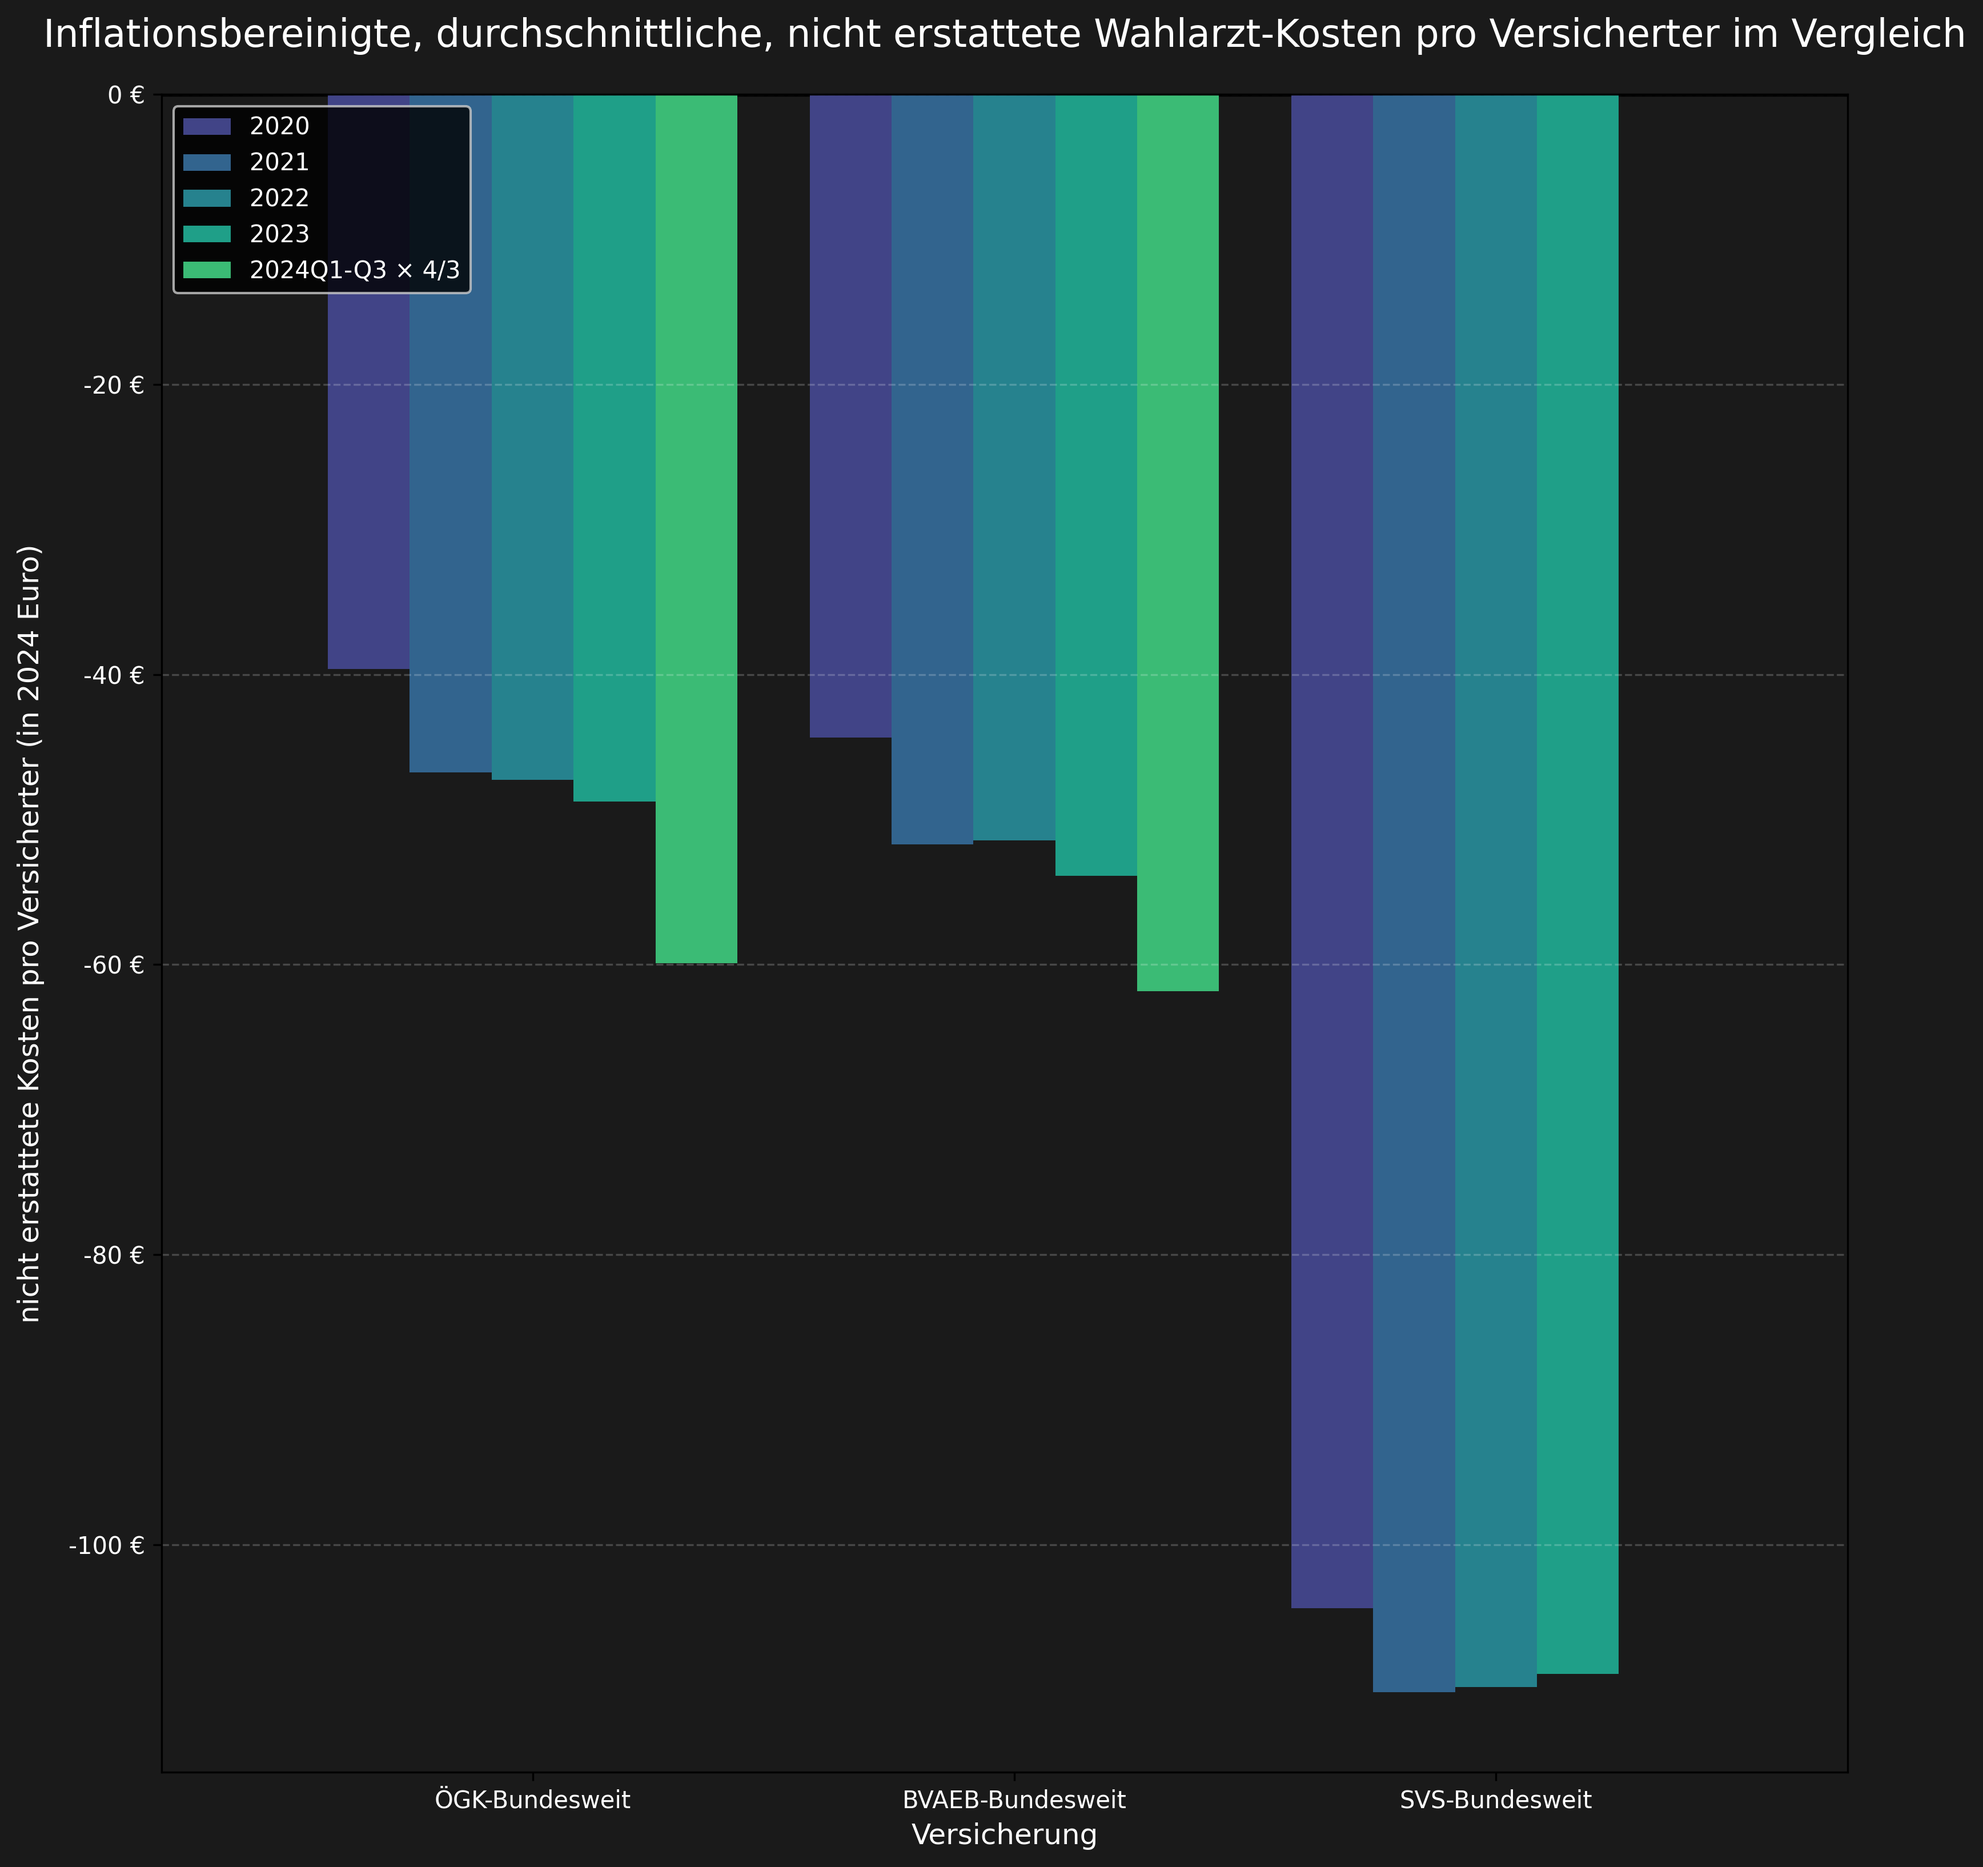
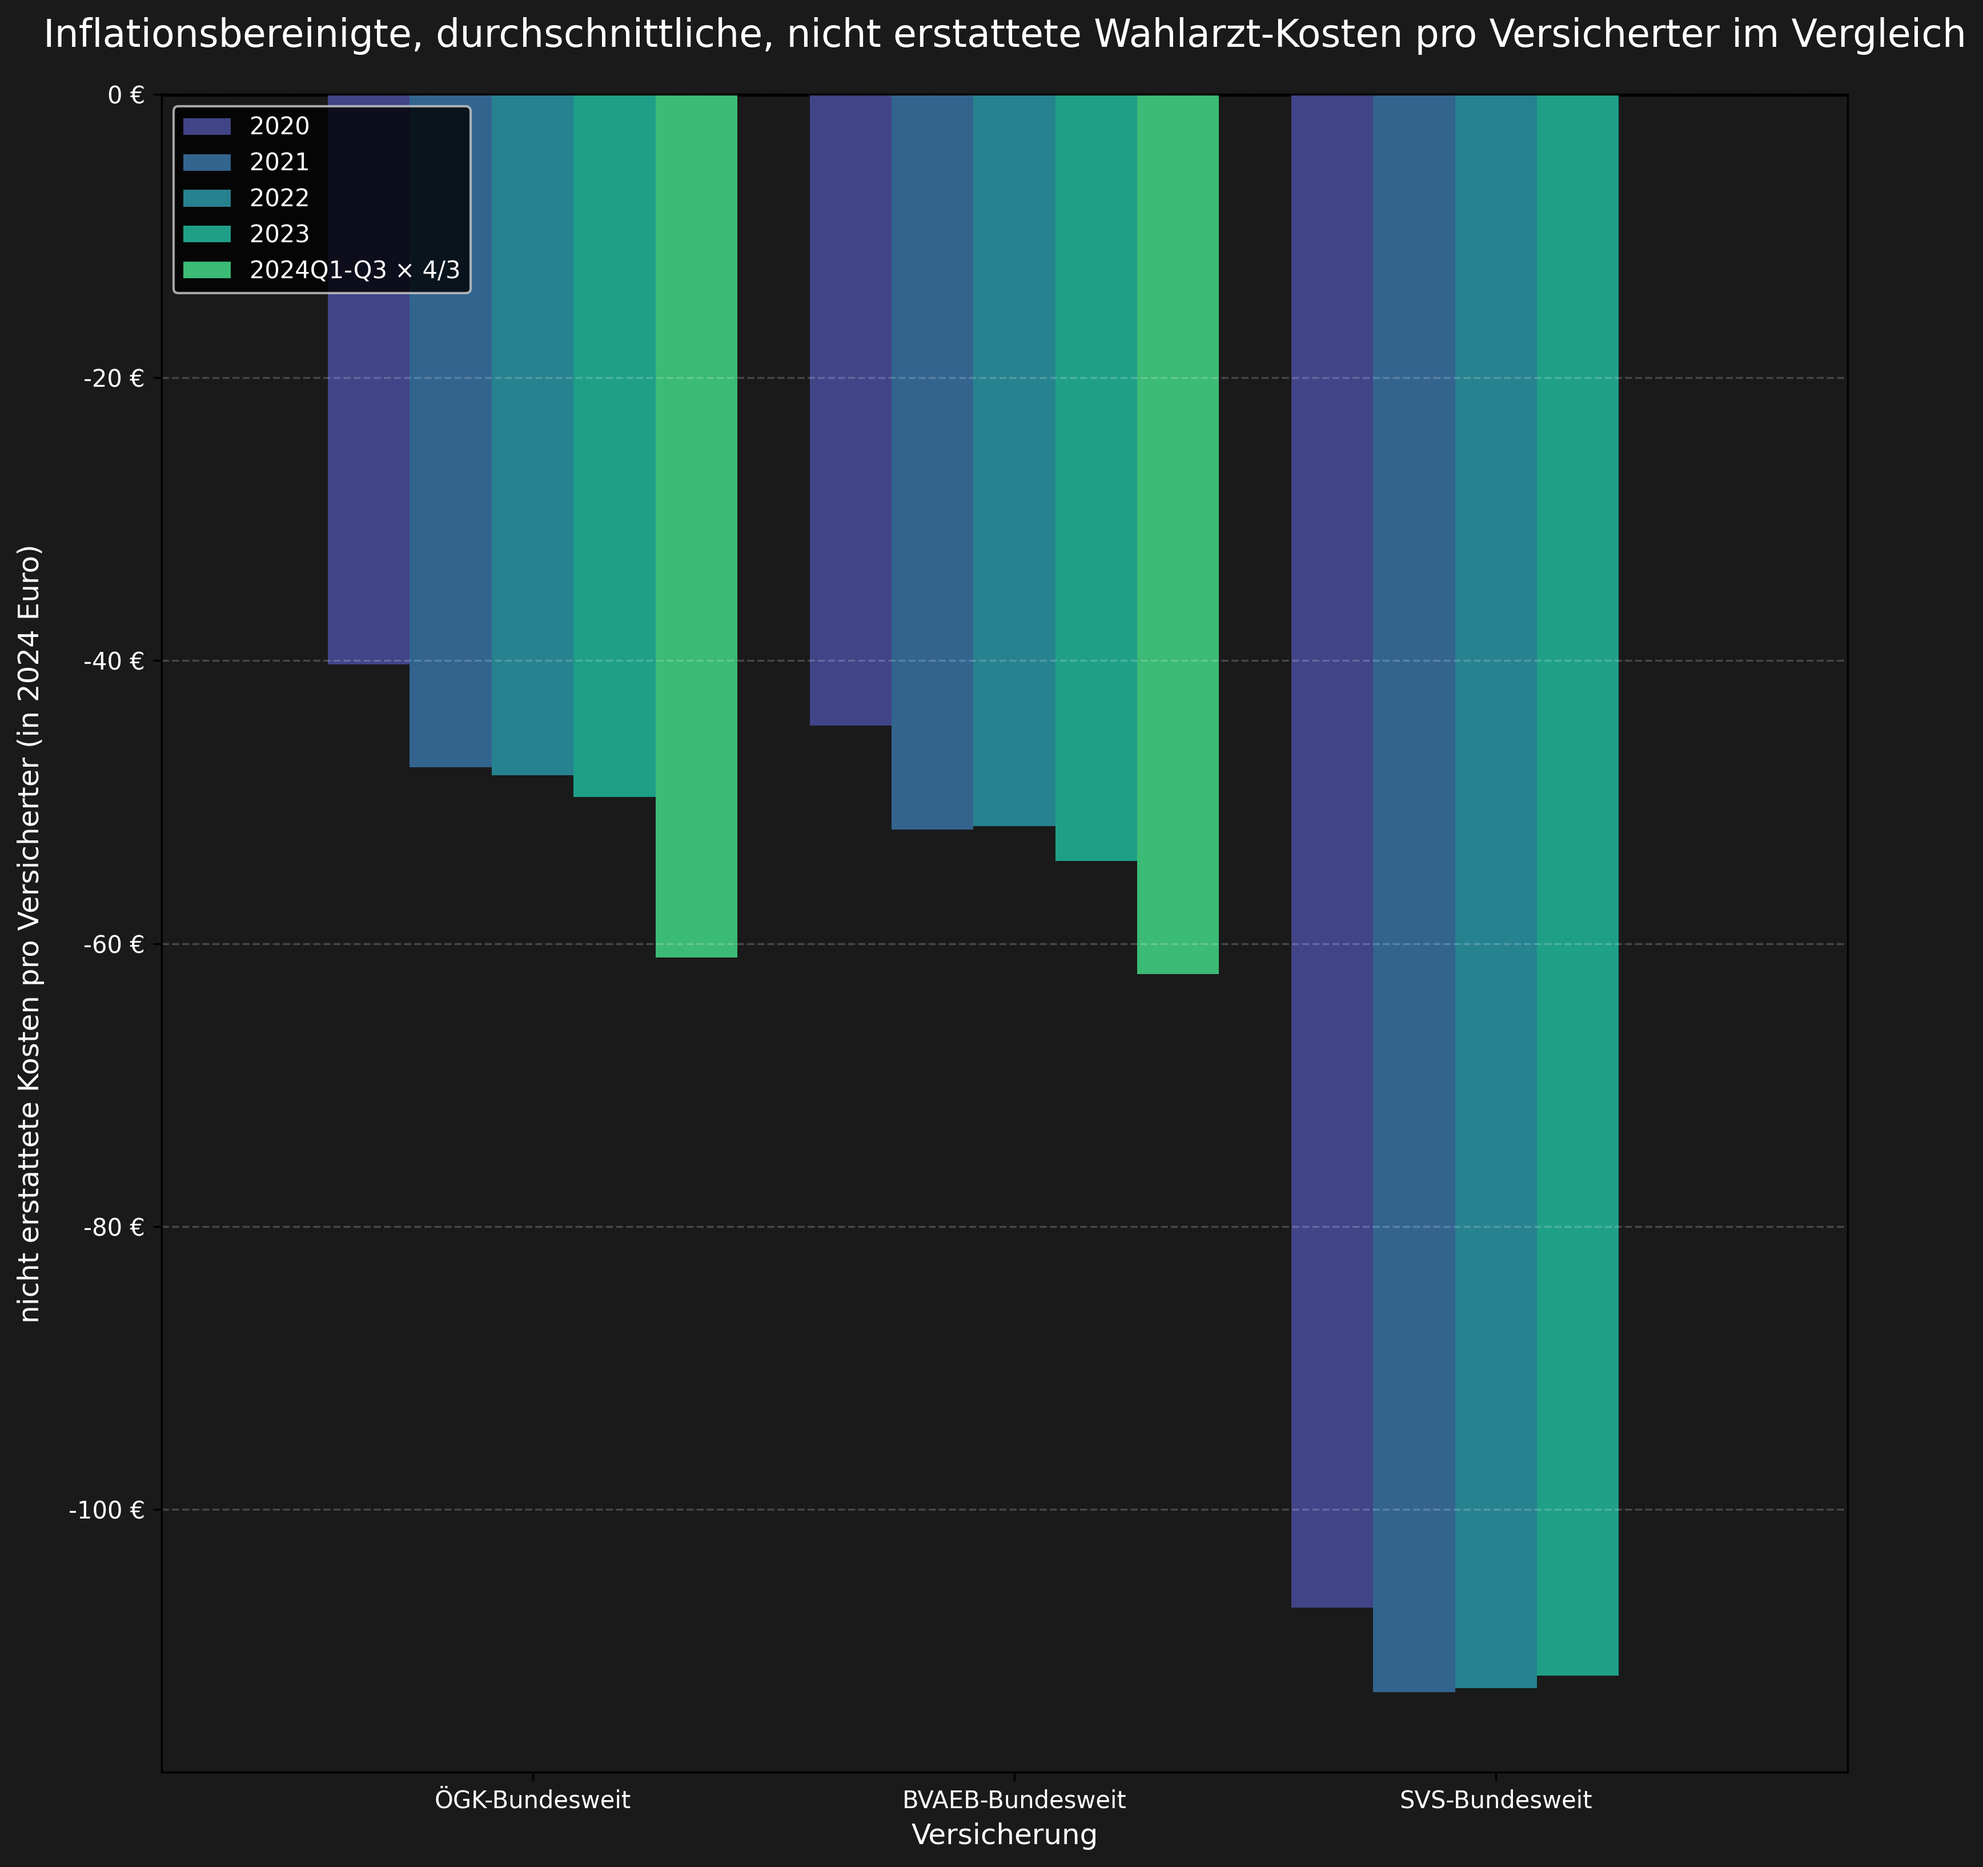
now using the correct data for the KK vergleich betraege weighted

diff --git a/visualize/plot_insurance_comparison_weighted.py b/visualize/plot_insurance_comparison_weighted.py
@@ -3,9 +3,11 @@ import matplotlib.pyplot as plt
 import numpy as np
 import os
 import colorsys
+import glob
 
 # Global settings
 OUTPUT_DIR = "../figures/Insurance_Comparison"  # Output directory for the plot
+SV_DATA_DIR = "../data/extras/SV_Jahresberichte"  # Directory containing SV Excel files
 
 # Dictionary to prettify insurance provider names
 prettify_insurance = {
@@ -13,6 +15,47 @@ prettify_insurance = {
     "ÖGK": "ÖGK-Bundesweit",
     "SVS": "SVS-Bundesweit",
 }
+
+def read_insured_population_from_excel():
+    """
+    Read insured population data from Excel files in SV_Veroeffentlichungen directory.
+    Returns a dictionary with insurance providers as keys, containing years and population data.
+    """
+    population_data = {
+        "BVAEB": {},
+        "ÖGK": {},
+        "SVS": {}
+    }
+    
+    # Get all Excel files
+    excel_files = glob.glob(os.path.join(SV_DATA_DIR, "Jahresergebnisse_*.xlsx"))
+    # Filter out files from years 2018 and 2019
+    excel_files = [file for file in excel_files 
+                  if not os.path.basename(file).endswith(('_18.xlsx', '_19.xlsx'))]
+    
+    for file_path in excel_files:
+        try:
+            # Extract year from filename
+            year = f"20{file_path.split('_')[-1].split('.')[0]}"
+            
+            # Read the Excel file
+            df = pd.read_excel(file_path, sheet_name="Tab4", header=None)
+            
+            # Get the row with insured population (B11 for ÖGK, B12 for BVAEB, B13 for SVS)
+            oegk_data = int(df.iloc[10, 1])  # B11
+            bvaeb_data = int(df.iloc[11, 1])  # B12
+            svs_data = int(df.iloc[12, 1])  # B13
+            
+            # Store data for each insurance provider
+            population_data["ÖGK"][year] = {"Gesamt": oegk_data}
+            population_data["BVAEB"][year] = {"Gesamt": bvaeb_data}
+            population_data["SVS"][year] = {"Gesamt": svs_data}
+            
+        except Exception as e:
+            print(f"Error reading {file_path}: {str(e)}")
+            continue
+    
+    return population_data
 
 # VPI data (from /data/extras/VPI/VPI...ods). Average per time period
 VPI_DATA = {
@@ -23,82 +66,14 @@ VPI_DATA = {
     "2023": 130.1,
     "2024Q1-Q3": 133.7, # Average of Q1-Q3 2024
     "2024": 134.0,
-    "2025": 136.8,
 }
 
-# All data from the respective Jahresergebnisse__.xlsx files.
-# Insured population data for each insurance provider
-INSURED_POPULATION = {
-    "BVAEB": {
-        "2020": {
-            "Gesamt": 1091751,
-        },
-        "2021": {
-            "Gesamt": 1109636,
-        },
-        "2022": {
-            "Gesamt": 1128466,
-        },
-        "2023": {
-            "Gesamt": 1150006,
-        },
-        "2024": {
-            "Gesamt": 1177976,
-        },
-        "2024Q1-Q3": lambda: {
-            k: int(v) for k, v in INSURED_POPULATION["BVAEB"]["2024"].items()
-        },
-        "2025": lambda: {
-            k: int(v * 1.008) for k, v in INSURED_POPULATION["BVAEB"]["2024"]().items()
-        },
-    },
-    "ÖGK": {
-        "2020": {
-            "Gesamt": 7278574,
-        },
-        "2021": {
-            "Gesamt": 7314435,
-        },
-        "2022": {
-            "Gesamt": 7419582,
-        },
-        "2023": {
-            "Gesamt": 7484358,
-        },
-        "2024": {
-            "Gesamt": 7506759,
-        },
-        "2024Q1-Q3": lambda: {
-            k: int(v) for k, v in INSURED_POPULATION["ÖGK"]["2024"].items()
-        },
-        "2025": lambda: {
-            k: int(v * 1.008) for k, v in INSURED_POPULATION["ÖGK"]["2024"]().items()
-        },
-    },
-    "SVS": {
-        "2020": {
-            "Gesamt": 1193401,
-        },
-        "2021": {
-            "Gesamt": 1216431,
-        },
-        "2022": {
-            "Gesamt": 1233186,
-        },
-        "2023": {
-            "Gesamt": 1247231,
-        },
-        "2024": {
-            "Gesamt": 1260118,
-        },
-        "2024Q1-Q3": lambda: {
-            k: int(v) for k, v in INSURED_POPULATION["SVS"]["2024"].items()
-        },
-        "2025": lambda: {
-            k: int(v * 1.008) for k, v in INSURED_POPULATION["SVS"]["2024"]().items()
-        },
-    },
-}
+# Read insured population data from Excel files
+INSURED_POPULATION = read_insured_population_from_excel()
+
+# Add 2024Q1-Q3 data using 2024 data directly
+for insurance in ["BVAEB", "ÖGK", "SVS"]:
+    INSURED_POPULATION[insurance]["2024Q1-Q3"] = INSURED_POPULATION[insurance]["2024"]
 
 def get_population_for_year(year, insurance):
     """Get the population data for a specific year and insurance provider"""
